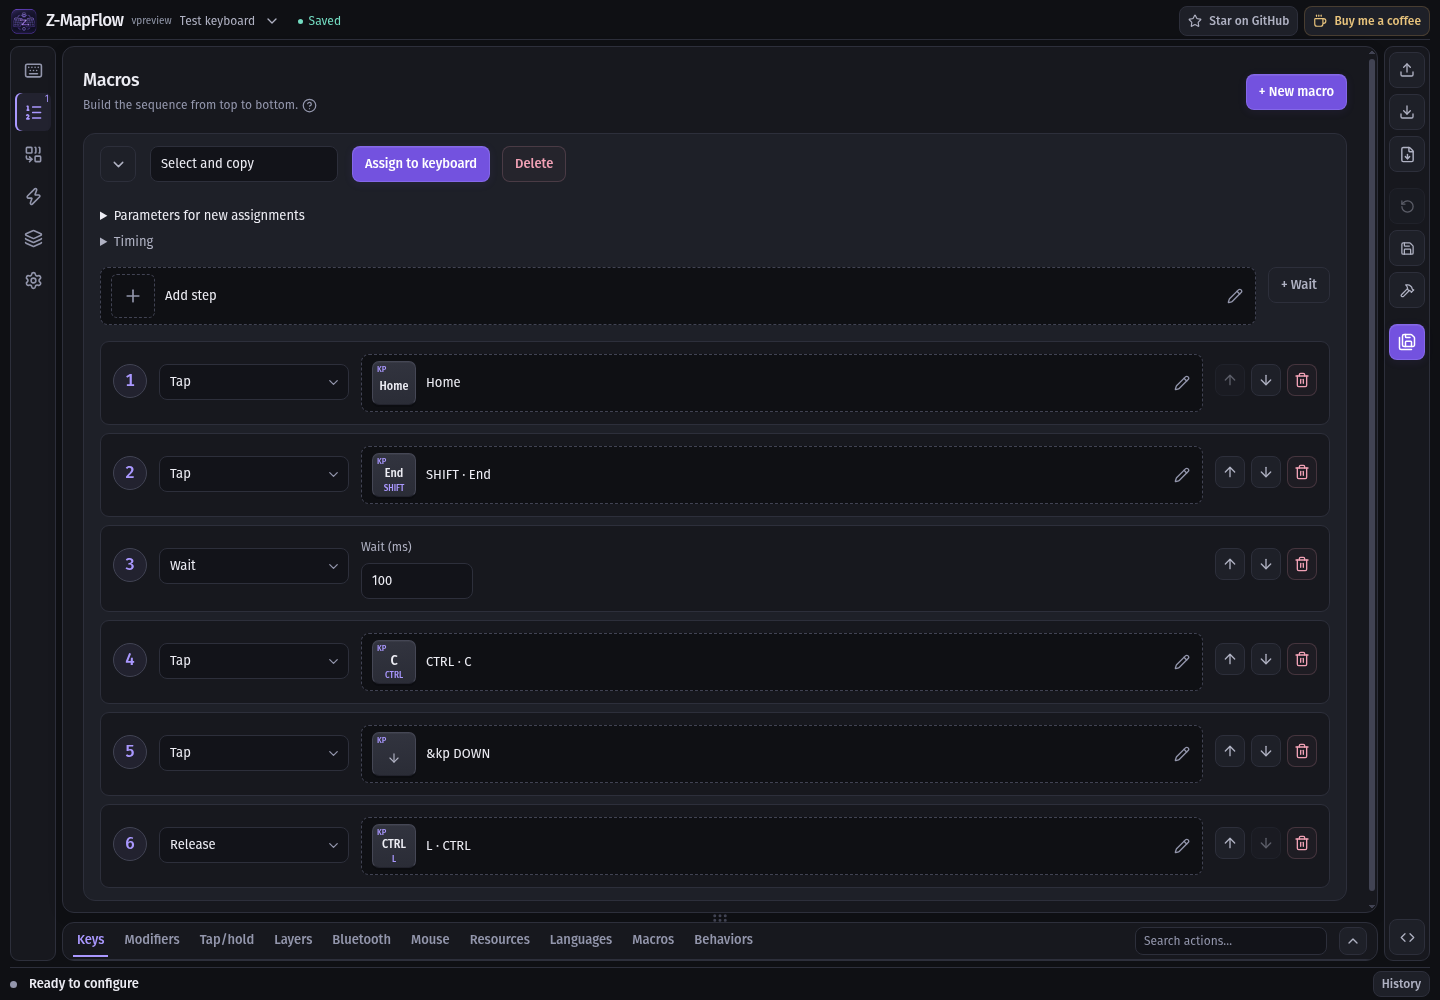
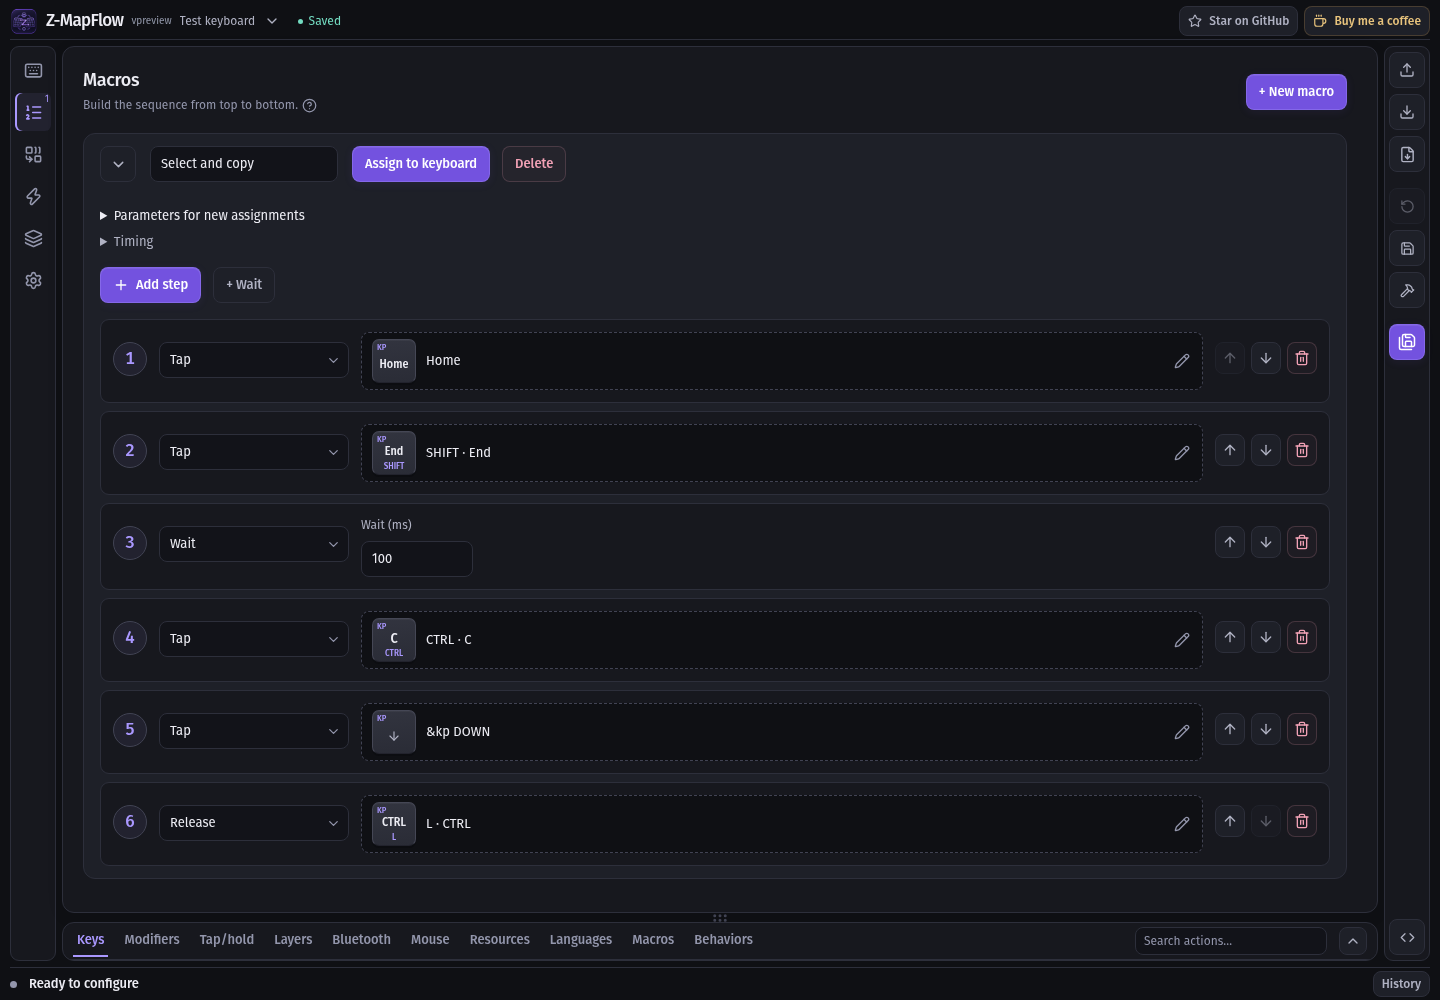
fix: add empty macro steps through an explicit button

diff --git a/frontend/src/App.test.tsx b/frontend/src/App.test.tsx
@@ -242,8 +242,9 @@ it("creates a macro, fills its steps, assigns it to keys on different layers, an
   });
   selectKey("&kp B");
   fireEvent.click(screen.getByRole("button", { name: "Assign action to Step 1 action" }));
+  fireEvent.click(screen.getByRole("button", { name: "Add step" }));
   selectKey("&kp C");
-  fireEvent.click(screen.getByRole("button", { name: "Assign action to Add step" }));
+  fireEvent.click(screen.getByRole("button", { name: "Assign action to Step 2 action" }));
   expect(getProject().layout.macros[0].steps.map((step) => step.binding)).toEqual([
     "&kp B",
     "&kp C",
@@ -469,13 +470,14 @@ it("creates parameter routing and release continuation controls and assigns macr
   selectOption("Step 1 type", "control");
   selectOption("Macro control", "&macro_param_1to1");
   expect(getProject().layout.macros[0].parameterCount).toBe(1);
-  const add = within(screen.getByRole("group", { name: "Add step" }));
+  fireEvent.click(screen.getByRole("button", { name: "Add step" }));
+  const add = within(screen.getByRole("group", { name: "Step 2 action" }));
   fireEvent.click(add.getByText("Edit action and parameters"));
   fireEvent.click(add.getByText("Advanced ZMK code"));
-  fireEvent.change(add.getByRole("textbox", { name: "ZMK binding: Add step" }), {
+  fireEvent.change(add.getByRole("textbox", { name: "ZMK binding: Step 2 action" }), {
     target: { value: "&kp MACRO_PLACEHOLDER" },
   });
-  fireEvent.keyDown(add.getByRole("textbox", { name: "ZMK binding: Add step" }), {
+  fireEvent.keyDown(add.getByRole("textbox", { name: "ZMK binding: Step 2 action" }), {
     key: "Enter",
   });
   fireEvent.click(screen.getByRole("button", { name: "+ Wait" }));

diff --git a/frontend/src/components/ResourceEditor.tsx b/frontend/src/components/ResourceEditor.tsx
@@ -1,5 +1,5 @@
 import { HelpTip } from "./HelpTip";
-import { ArrowUp, ArrowDown, Trash2 } from "lucide-react";
+import { ArrowUp, ArrowDown, Trash2, Plus } from "lucide-react";
 import { usePalettePicker } from "../store/usePalettePicker";
 import { SearchableSelect } from "./SearchableSelect";
 import { BehaviorCard } from "./BehaviorCard";
@@ -149,20 +149,25 @@ export const MacroEditor = memo(function MacroEditor({ onAssign }: AssignProps) 
             </div>
           </details>
           <div className="macro-add-step">
-            <BindingDrop
-              condensed
-              code=""
-              context="macro"
-              owner={m.id}
-              label={tr("Add step")}
-              onChange={(code) =>
+            <button
+              type="button"
+              className="btn primary"
+              onClick={() => {
+                usePalettePicker.getState().clear();
                 edit((p) => {
                   p.layout.macros
                     .find((x) => x.id === m.id)!
-                    .steps.push({ kind: "tap", binding: code, durationMs: 0 });
-                })
-              }
-            />
+                    .steps.push({
+                      kind: "tap",
+                      binding: "",
+                      durationMs: 0,
+                    });
+                });
+              }}
+            >
+              <Plus size={16} aria-hidden="true" />
+              {tr("Add step")}
+            </button>
             <button
               className="btn"
               onClick={() =>

diff --git a/frontend/src/components/CompactMacros.test.tsx b/frontend/src/components/CompactMacros.test.tsx
@@ -38,6 +38,15 @@ it("starts new resource action slots empty and blocks assignment until the user 
   expect(usePalettePicker.getState().collapsed).toBe(true);
   expect(screen.getByRole("button", { name: "Assign New macro to keyboard" })).toBeEnabled();
   expect(projectBindingError(state().project!, state().plugin)).toBe("");
+  fireEvent.click(screen.getByRole("button", { name: "Add step" }));
+  expect(state().project!.layout.macros[0].steps.map((s) => s.binding)).toEqual(["&kp C", ""]);
+  expect(usePalettePicker.getState().collapsed).toBe(true);
+  expect(screen.getByRole("listitem", { name: "Step 2" })).toBeVisible();
+  expect(screen.getByRole("button", { name: "Assign New macro to keyboard" })).toBeDisabled();
+  fireEvent.click(screen.getByRole("button", { name: "Assign action to Step 2 action" }));
+  fireEvent.click(palette.getByRole("button", { name: "Drag &kp V" }));
+  expect(state().project!.layout.macros[0].steps.map((s) => s.binding)).toEqual(["&kp C", "&kp V"]);
+  expect(screen.getByRole("button", { name: "Assign New macro to keyboard" })).toBeEnabled();
   fireEvent.click(screen.getByRole("button", { name: "+ Tap / hold" }));
   expect(state().project!.layout.behaviors[0].bindings).toEqual(["", ""]);
   expect(screen.getByRole("button", { name: "Assign New tap/hold to keyboard" })).toBeDisabled();

diff --git a/frontend/src/components/ContextualPalette.test.tsx b/frontend/src/components/ContextualPalette.test.tsx
@@ -140,7 +140,7 @@ it("places add-step controls before aligned step cards and separates execution m
     </DndContext>,
   );
   fireEvent.click(screen.getByRole("button", { name: "Show settings for Copy" }));
-  const add = screen.getByRole("group", { name: "Add step" });
+  const add = screen.getByRole("button", { name: "Add step" });
   const step = screen.getByRole("group", { name: "Step 1 action" });
   expect(add.compareDocumentPosition(step) & Node.DOCUMENT_POSITION_FOLLOWING).toBeTruthy();
   selectOption("Step 1 type", "press");

diff --git a/frontend/src/style.css b/frontend/src/style.css
@@ -2412,10 +2412,6 @@ input[type="checkbox"]:focus-visible {
   flex-wrap: wrap;
   margin: 16px 0;
 }
-.macro-add-step > .binding-drop {
-  flex: 1;
-  min-width: min(320px, 100%);
-}
 .macro-steps {
   display: flex;
   flex-direction: column;

diff --git a/AGENT.md b/AGENT.md
@@ -562,3 +562,8 @@ Ao alterar o código:
 - Successful click/drop assignment closes an editor destination and collapses the palette. Rejected inputs keep it open. Palette-internal tap builders retain the open palette while composing their own action. Replaced repeated instructions with short labels and supplementary help tooltips accessible on hover/focus, dismissible with Escape. Updated English/PT-BR documentation, translations and the macro screenshot.
 - The shared keyboard renderer now computes extents of rotated key rectangles and reserves a 12px unscaled gutter. Fit uses client dimensions, excluding scrollbars; zoom keeps the reserved canvas scrollable. Descriptor coordinates, rotations and binding order remain unchanged, with no Sofle-specific condition in core.
 - Validation: 240 frontend tests passed (34 files), including empty-resource validation, click/drop auto-collapse, ordered reordering/removal, keyboard help and rotated-corner bounds. TypeScript/Vite, native Linux Wails build, formatting, i18n tests and VitePress passed. Chromium used actual components with simulated APIs and transfers disabled: six steps fit in a 1440x1000 view (~84px each); EN/PT layouts at 900/1100/1440px had no document overflow; actual pointer drags through both the main and pencil parameter slots filled bindings and collapsed the palette. The real Sofle descriptor/default layer retained ~23px bottom clearance in fit mode and ~36px with zoom/scrollbars at 1100x420. Temporary preview sources and processes were removed. No personal configuration, firmware transfer, Windows GUI test, VERSION change, merge or release. build/bin/z-mapflow is updated; continue draft PR #13.
+
+### Explicit macro add-step button — 2026-11-28
+
+- At the author's request, replaced the macro add-step drop area with a plus-icon Add step button. Clicking appends one empty tap step, clears any previous palette destination, preserves existing steps and leaves palette visibility unchanged. Actions are filled in the new numbered row; incomplete macros retain assignment/save/build validation. Removed obsolete drop-area sizing and updated EN/PT instructions and the screenshot.
+- Validation: 40 affected frontend integration tests passed, including creating/filling the empty row, numbering, palette remaining collapsed, assignment gating, parameter routing and save flow. TypeScript/Vite, native Linux Wails build, formatting, whitespace and VitePress passed. Chromium inspected actual App/components with simulated APIs and firmware transfers disabled: no add-step drop target, click creates one numbered row with a visibly empty slot, palette stays collapsed. Temporary harnesses/processes removed; build/bin/z-mapflow updated. No physical flash, personal configuration, VERSION, merge or release. Continue draft PR #13.

diff --git a/docs/pt-BR/guide/getting-started.md b/docs/pt-BR/guide/getting-started.md
@@ -52,6 +52,6 @@ Escolha o tipo de ação no dropdown **Comportamento**. Para uma tecla, camada, 
 
 Após clicar ou arrastar uma ação da paleta para um slot do editor, a seleção termina e a paleta recolhe automaticamente. Clique em outro slot ou aba da paleta para abrir novamente. Esc encerra a seleção sem alterar o campo. Fechar um card ou trocar de tela limpa o destino. Na edição de tecla, a janela fica acima da paleta, permitindo clicar e arrastar sem atingir o teclado que está atrás.
 
-O **Modo do passo** da macro define a execução: **Tocar** pressiona e solta, **Pressionar** mantém pressionado, **Soltar** libera e **Esperar** pausa. O dropdown **Comportamento** define a tecla/ação executada. Os passos aparecem em linhas compactas e numeradas, lidas de cima para baixo. Clique no slot da ação para substituí-la; use o ícone de lápis para editar o comportamento, parâmetros individuais ou código avançado. Os controles para adicionar passos ficam acima da sequência, e os tempos padrão ficam em **Tempos**. Use as setas para cima/baixo para reordenar. **Atribuir ao teclado**, no cabeçalho, atribui a macro completa; a aba **Macros** da paleta permite arrastá-la.
+O **Modo do passo** da macro define a execução: **Tocar** pressiona e solta, **Pressionar** mantém pressionado, **Soltar** libera e **Esperar** pausa. O dropdown **Comportamento** define a tecla/ação executada. Os passos aparecem em linhas compactas e numeradas, lidas de cima para baixo. Clique no slot da ação para substituí-la; use o ícone de lápis para editar o comportamento, parâmetros individuais ou código avançado. **Adicionar passo**, acima da sequência, cria um passo numerado com a ação vazia. Clique ou arraste uma ação para essa nova linha. Os tempos padrão ficam em **Tempos**. Use as setas para cima/baixo para reordenar. **Atribuir ao teclado**, no cabeçalho, atribui a macro completa; a aba **Macros** da paleta permite arrastá-la.
 
 Novas macros, ações internas de comportamentos e saídas de combos começam com slots vazios. Preencha os slots necessários antes de atribuir, salvar ou compilar. As ações já importadas são preservadas. Explicações complementares ficam nos botões **?**: passe o mouse ou foque o botão; Esc fecha o tooltip.

diff --git a/docs/guide/getting-started.md b/docs/guide/getting-started.md
@@ -56,6 +56,6 @@ Choose the action type from the **Behavior** dropdown. For a key, layer, Bluetoo
 
 After clicking or dropping a palette action into an editor slot, selection ends and the palette collapses. Click another slot or palette tab to open it again. Escape ends selection without changing the field. Closing a resource card or switching views clears its destination. In the key editor, the dialog moves above the palette so you can click or drag without dropping onto the keyboard behind it.
 
-Macro **Step mode** controls execution: **Tap** presses and releases, **Press** holds, **Release** releases, and **Wait** pauses. The **Behavior** dropdown chooses the key/action to execute. Steps appear as compact numbered rows, read from top to bottom. Click a row’s action slot to replace it; use its pencil icon to edit the behavior, individual parameters or advanced code. Add-step controls appear above the sequence, and timing defaults are under **Timing**. Use the up/down arrows to reorder steps. The header’s **Assign to keyboard** button assigns the complete macro; the **Macros** palette tab offers it for dragging.
+Macro **Step mode** controls execution: **Tap** presses and releases, **Press** holds, **Release** releases, and **Wait** pauses. The **Behavior** dropdown chooses the key/action to execute. Steps appear as compact numbered rows, read from top to bottom. Click a row’s action slot to replace it; use its pencil icon to edit the behavior, individual parameters or advanced code. **Add step**, above the sequence, creates an empty numbered step. Click or drop an action into that new row. Timing defaults are under **Timing**. Use the up/down arrows to reorder steps. The header’s **Assign to keyboard** button assigns the complete macro; the **Macros** palette tab offers it for dragging.
 
 New macros, behavior child actions and combo outputs start with empty action slots. Fill the required slots before assigning, saving or building. Existing imported actions are preserved. Supplementary explanations are available from the **?** buttons by hovering or focusing them; Escape dismisses the tooltip.
